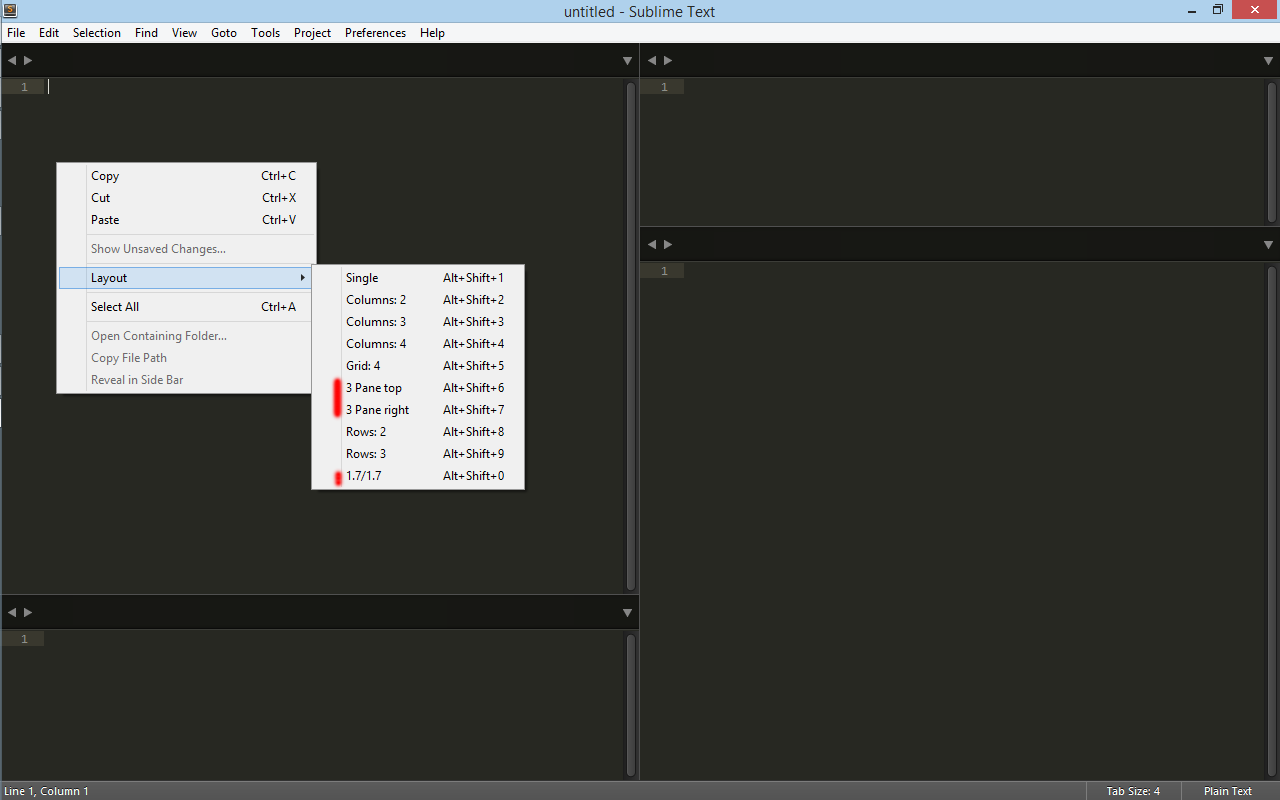
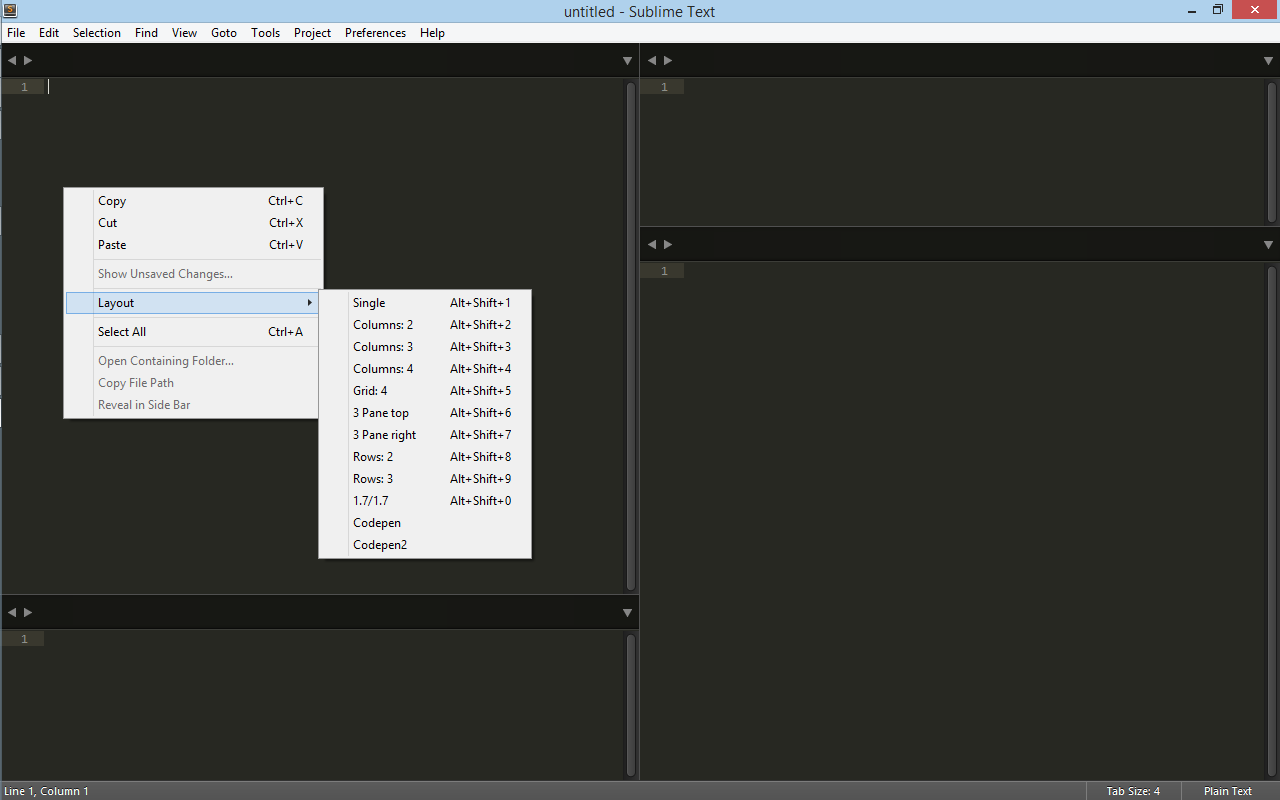
add screenshots

Changed region(s): [[0.0312, 0.1875, 0.4375, 0.7188]]

diff --git a/README.md b/README.md
@@ -11,8 +11,12 @@ Add more layouts
 
 ![ScreenShot](https://raw.github.com/unknownuser88/morelayouts/master/3.png)
 
+![ScreenShot](https://raw.github.com/unknownuser88/morelayouts/master/4.png)
+
+![ScreenShot](https://raw.github.com/unknownuser88/morelayouts/master/5.png)
+
 ## Key Binding
 
-The default key binding is "alt+shift+6" and "alt+shift+7".
+The default key binding is "alt+shift+6" and "alt+shift+7" and "alt+shift+0".
 
 ---
